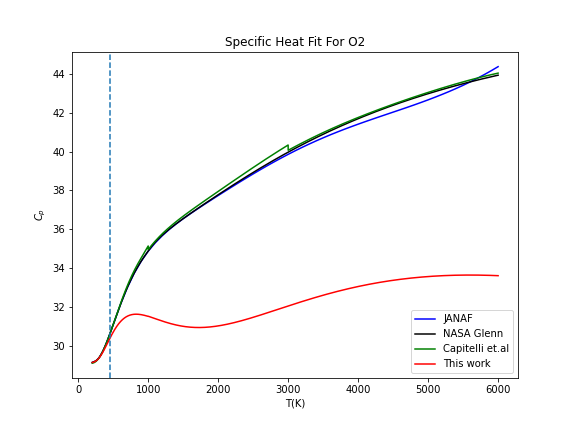
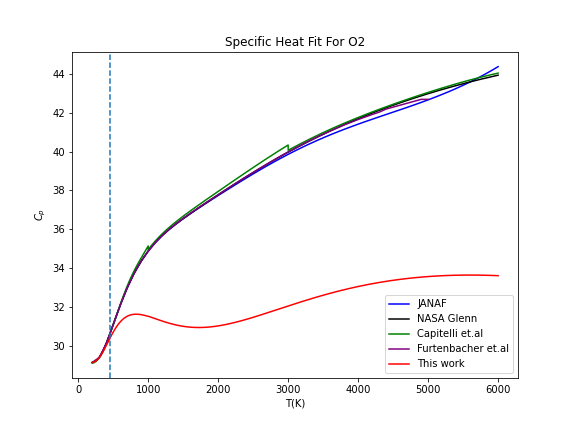
Add O2 data from Furtenbacher

diff --git a/Cp.py b/Cp.py
@@ -267,7 +267,7 @@ def create_dict(diff_dict,species,sourcename,diff):
         diff_dict[species][sourcename]=diff
     return diff_dict    
 
-def compare_difference(di_J_dict, di_nasa_dict, di_Ca_dict, T_di_Furtenbacher, T_di_SS_N, T_di_SS_P,Cp_dict,Tmax_this):
+def compare_difference(di_J_dict, di_nasa_dict, di_Ca_dict, T_di_Furtenbacher, di_Furtenbacher_O2,T_di_SS_N, T_di_SS_P,Cp_dict,Tmax_this):
     diff_dict=dict()
     for species in tqdm(Cp_dict):
         Tmax=Tmax_this[species]
@@ -290,6 +290,10 @@ def compare_difference(di_J_dict, di_nasa_dict, di_Ca_dict, T_di_Furtenbacher, T
             sourcename='Fur'
             diff_Fur=get_mean_max_var_difference(T_di_Furtenbacher,Tmax)
             diff_dict=create_dict(diff_dict,species,sourcename,diff_Fur)
+        if species=='O2':
+            sourcename='Fur'
+            diff_Fur_O2=get_mean_max_var_difference(T_di_Furtenbacher_O2,Tmax)
+            diff_dict=create_dict(diff_dict,species,sourcename,diff_Fur_O2)
         if species=='NH3':
             sourcename='SS'
             diff_SS_N=get_mean_max_var_difference(T_di_SS_N,Tmax)
@@ -395,6 +399,12 @@ def compare_and_plot_Cp(Cp_dict,Tmax_dict,Cp_JANAF,coe_Capitelli,coe_nasa,Tmax_t
             plt.plot(T_Harris,Cp_Harris,color='aqua',label="Harris et.al")
             plt.plot(T_Furtenbacher,Cp_Furtenbacher,color='purple',label="Furtenbacher et.al")
 
+        if species=='O2':
+            T_Furtenbacher,Cp_Furtenbacher=np.loadtxt("Other_Cp/O2_Furtenbacher.txt",usecols=(0,1),unpack=True) 
+            T_Furtenbacher_di_O2,di_Furtenbacher_O2=get_difference(Cp_dict,T_Furtenbacher,Cp_Furtenbacher,species)
+            T_di_Furtenbacher_O2=np.vstack((T_Furtenbacher_di_O2,di_Furtenbacher_O2))
+            plt.plot(T_Furtenbacher,Cp_Furtenbacher,color='purple',label="Furtenbacher et.al")
+
         if species=='NH3':
             other_data=True
             T_SS,Cp_SS=np.loadtxt("Other_Cp/NH3_Sousa_Silva.txt",usecols=(0,1),unpack=True) 
@@ -452,6 +462,8 @@ def compare_and_plot_Cp(Cp_dict,Tmax_dict,Cp_JANAF,coe_Capitelli,coe_nasa,Tmax_t
                 plt.plot(T_VT_di,di_VT,color='orange',label="Vidler & Tennyson")
                 plt.plot(T_Harris_di,di_Harris,color='aqua',label="Harris et.al")
                 plt.plot(T_Furtenbacher_di,di_Furtenbacher,color='purple',label="Furtenbacher et.al")
+            if species=='O2':
+                plt.plot(T_Furtenbacher_di_O2,di_Furtenbacher_O2,color='purple',label="Furtenbacher et.al")
             if species=='NH3':
                 plt.plot(T_SS_di,di_SS_N,color='deepskyblue',label="C. Sousa-Silva et al.")
             if species=='PH3':
@@ -472,7 +484,7 @@ def compare_and_plot_Cp(Cp_dict,Tmax_dict,Cp_JANAF,coe_Capitelli,coe_nasa,Tmax_t
             # plt.savefig(storename)
             plt.show() 
 
-    return di_J_dict, di_nasa_dict, di_Ca_dict, T_di_Furtenbacher, T_di_SS_N, T_di_SS_P
+    return di_J_dict, di_nasa_dict, di_Ca_dict, T_di_Furtenbacher, T_di_Furtenbacher_O2,T_di_SS_N, T_di_SS_P
 
 # Define the nasa polynomial format using for fitting
 def objective(x,a1,a2,a3,a4,a5,a6,a7):
@@ -645,12 +657,11 @@ if __name__ == '__main__':
     coe_Capitelli=get_Capitelli()
     coe_nasa=get_nasa(Cp_dict)
     Tmax_this=get_Tmax_this(Tmax_hitran)
-    di_J_dict, di_nasa_dict, di_Ca_dict, T_di_Furtenbacher, T_di_SS_N, T_di_SS_P=compare_and_plot_Cp(Cp_dict,Tmax_hitran,Cp_JANAF,coe_Capitelli,coe_nasa,Tmax_this)
-    # diff_dict=compare_difference(di_J_dict, di_nasa_dict, di_Ca_dict, T_di_Furtenbacher, T_di_SS_N, T_di_SS_P,Cp_dict,Tmax_this)
-    # fit_dictionary=get_coefficients(Cp_dict,Tmax_this)
-    # # store_coefficients(Tmax_this,fit_dictionary)
-    # residual_dict=calculate_and_plot_residuals(Tmax_this,Cp_dict,fit_dictionary)
-#%%
+    di_J_dict, di_nasa_dict, di_Ca_dict, T_di_Furtenbacher, T_di_Furtenbacher_O2, T_di_SS_N, T_di_SS_P=compare_and_plot_Cp(Cp_dict,Tmax_hitran,Cp_JANAF,coe_Capitelli,coe_nasa,Tmax_this)
+    diff_dict=compare_difference(di_J_dict, di_nasa_dict, di_Ca_dict, T_di_Furtenbacher, T_di_Furtenbacher_O2,T_di_SS_N, T_di_SS_P,Cp_dict,Tmax_this)
+    fit_dictionary=get_coefficients(Cp_dict,Tmax_this)
+    # store_coefficients(Tmax_this,fit_dictionary)
+    residual_dict=calculate_and_plot_residuals(Tmax_this,Cp_dict,fit_dictionary)
 
 #%%
 # %%
